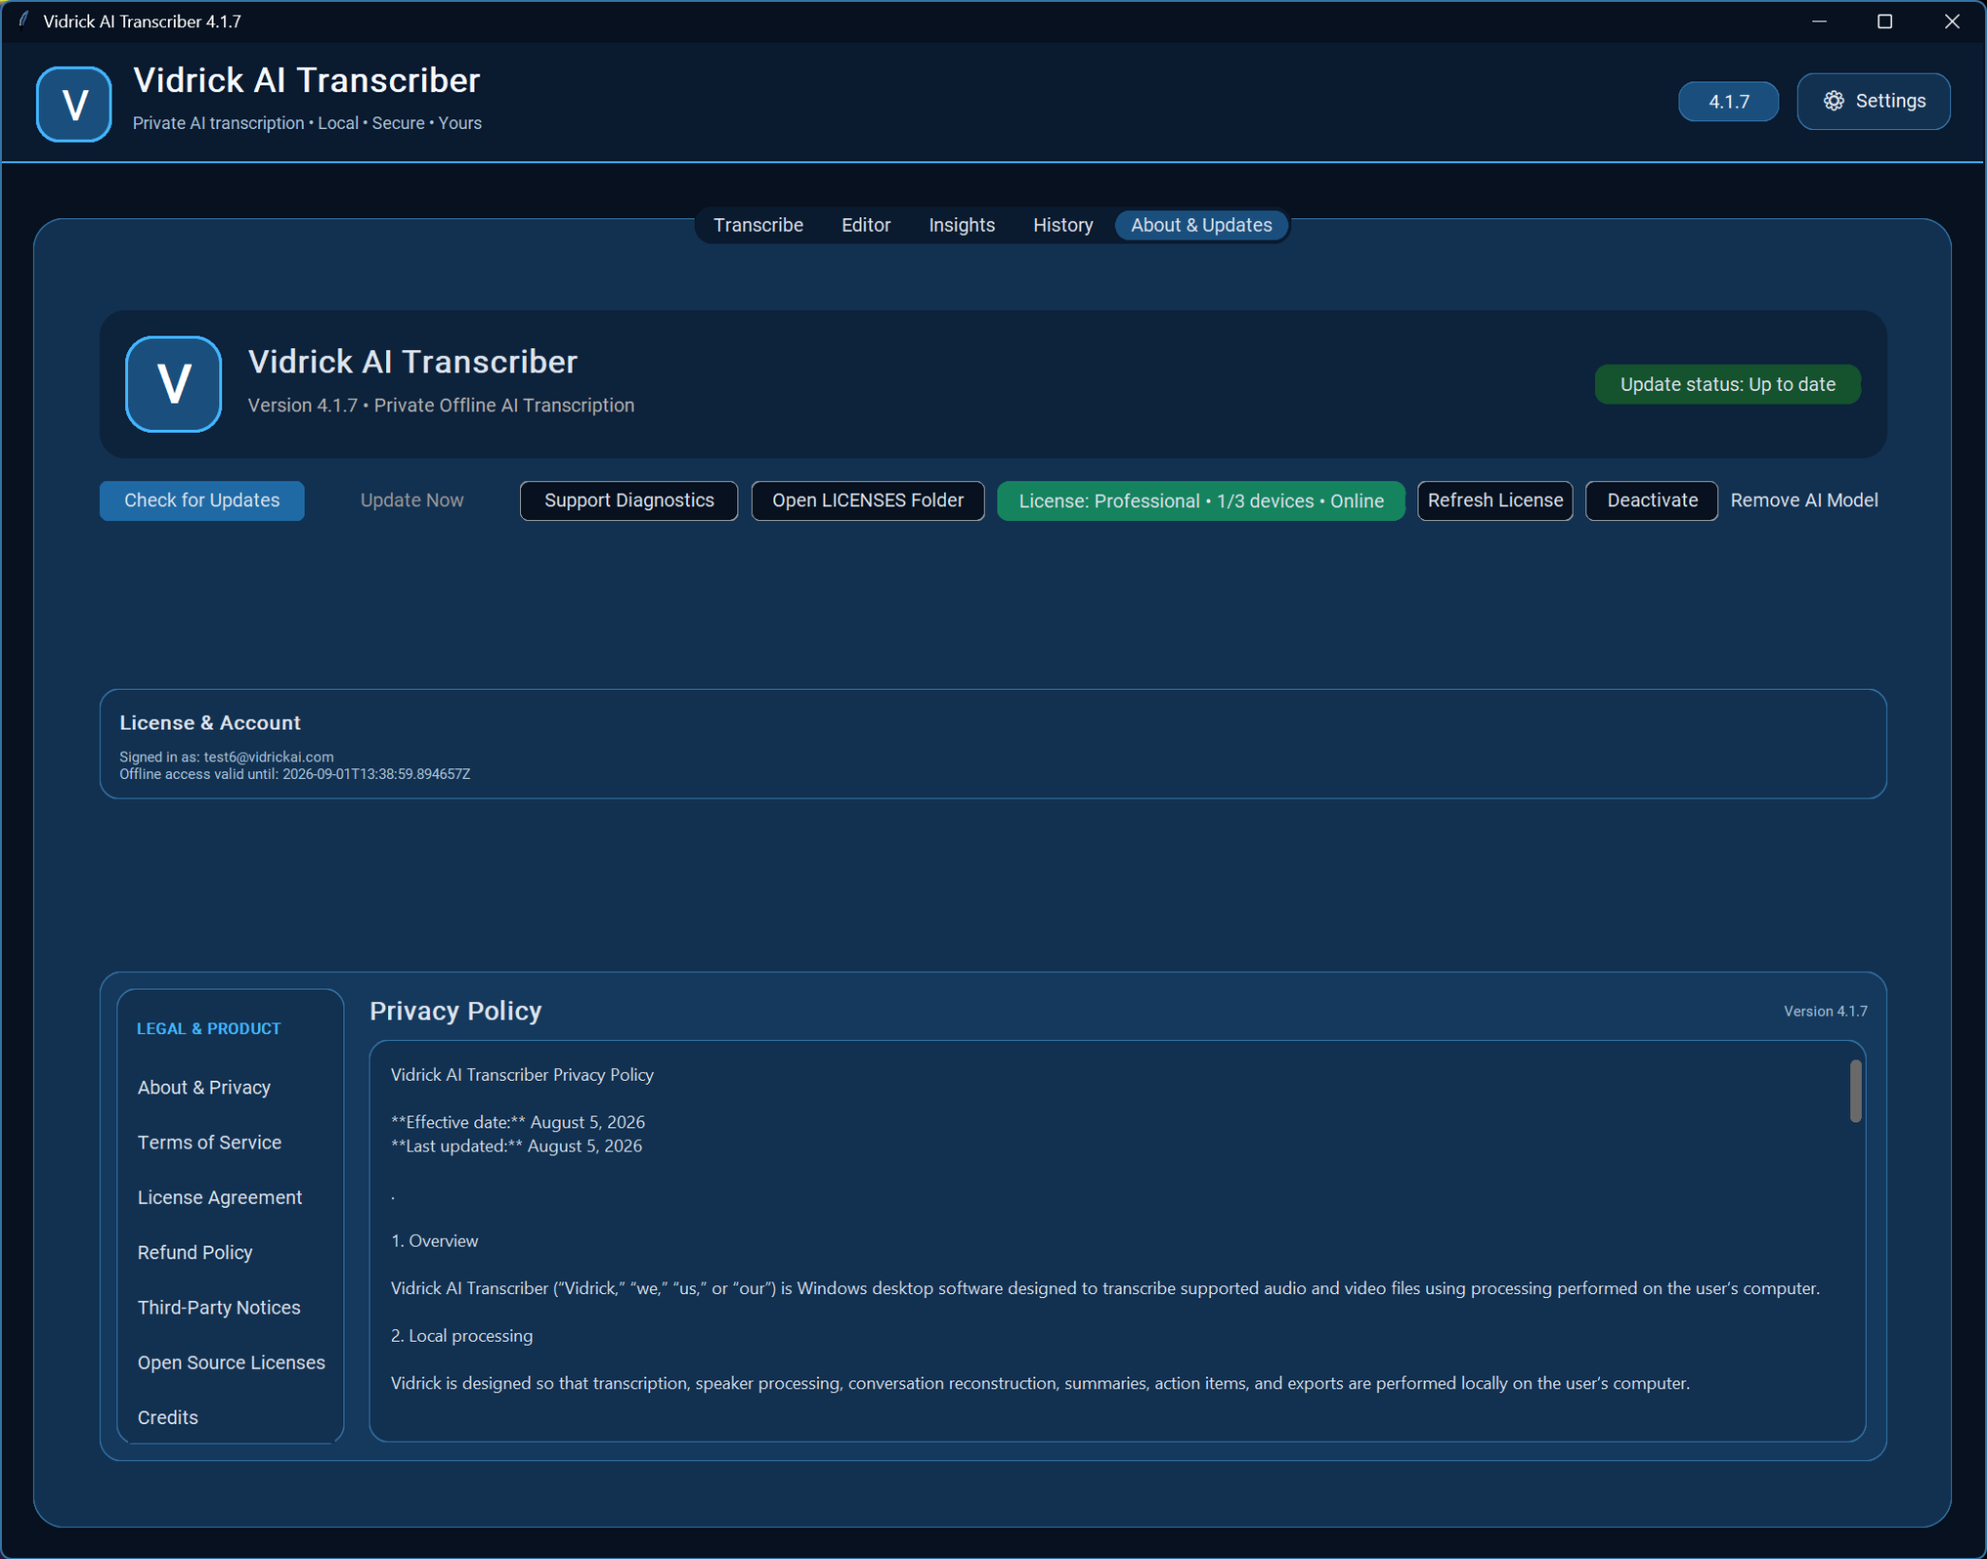
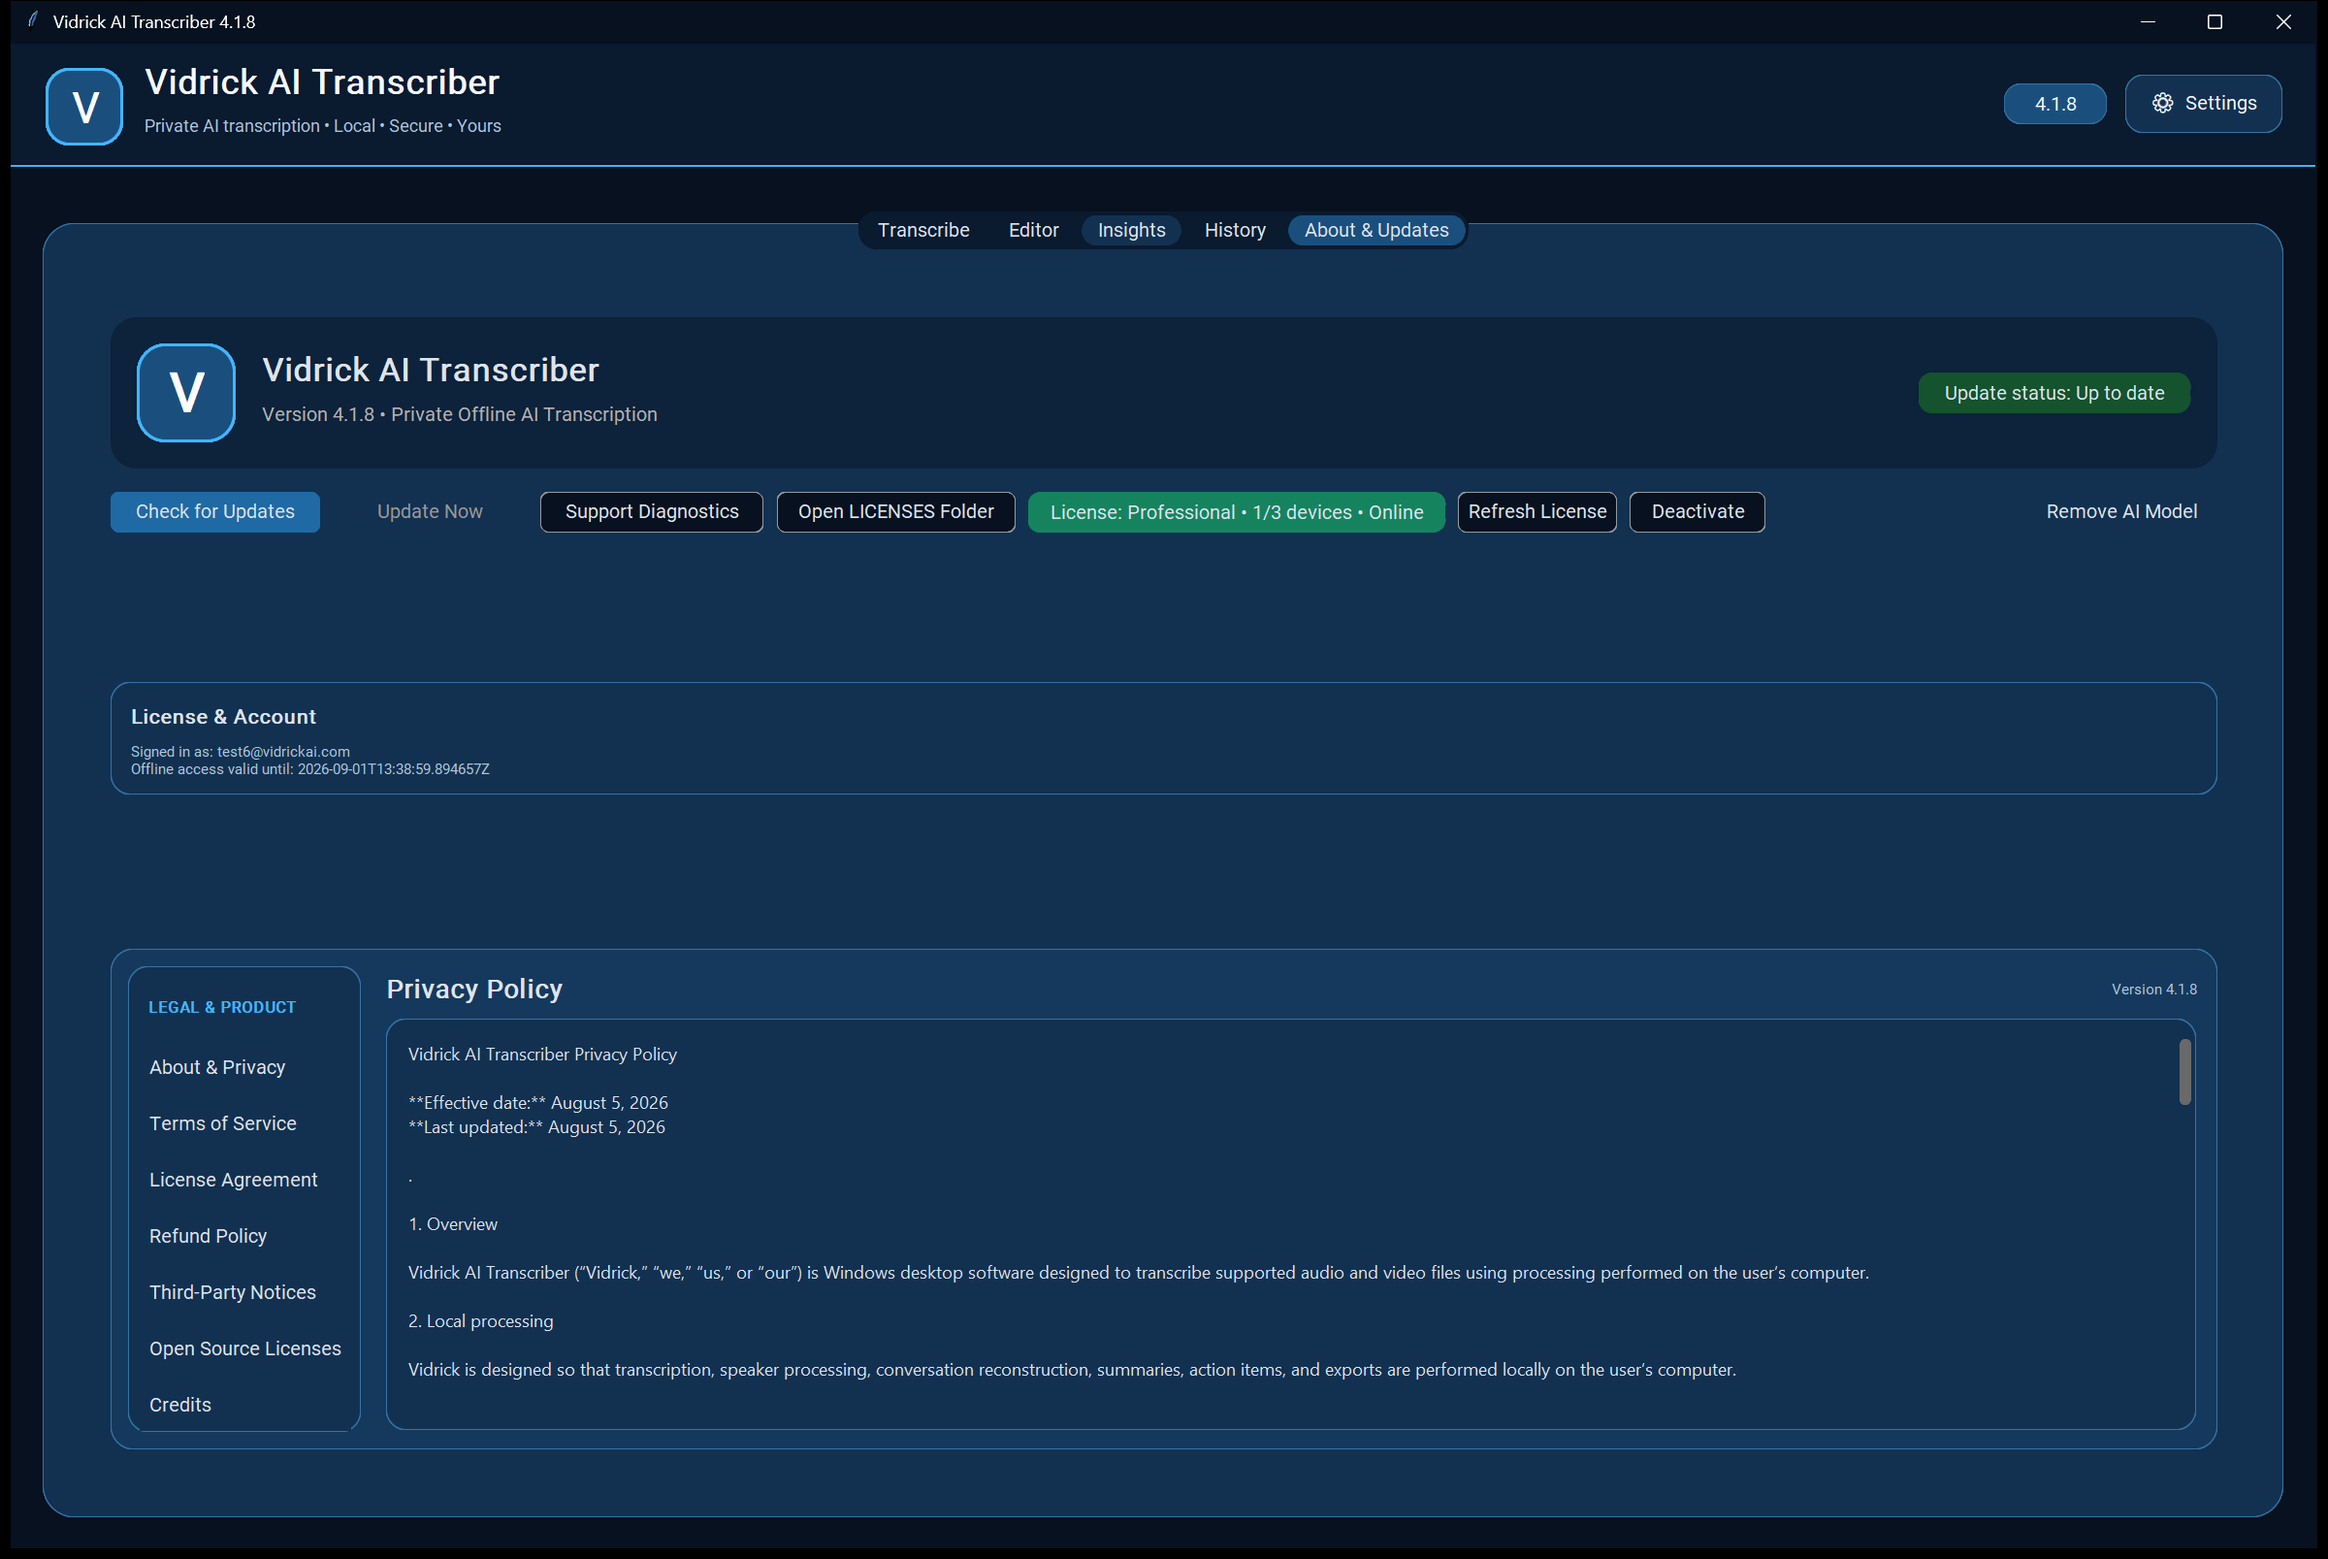
Update website for Vidrick AI Transcriber 4.1.8

diff --git a/index.html b/index.html
@@ -17,7 +17,7 @@
   <link rel="preconnect" href="https://fonts.googleapis.com">
   <link rel="preconnect" href="https://fonts.gstatic.com" crossorigin>
   <link href="https://fonts.googleapis.com/css2?family=Inter:wght@400;500;600;700;800&display=swap" rel="stylesheet">
-  <link rel="stylesheet" href="styles.css">
+  <link rel="stylesheet" href="styles.css?v=4.1.8">
   <meta name="robots" content="index, follow, max-image-preview:large">
   <meta property="og:title" content="Vidrick AI Transcriber | Private Offline AI Transcription for Windows">
   <meta property="og:description" content="Transcribe audio and video locally on Windows with 57 selectable languages plus Auto-detect, speaker identification, and NVIDIA GPU acceleration.">
@@ -90,7 +90,7 @@
       </div>
 
       <div class="hero-shot screenshot-frame reveal">
-        <img src="assets/transcribe.png" alt="Vidrick AI Transcriber 4.1.7 transcription screen with local CPU processing and automatic speaker identification">
+        <img src="assets/transcribe.png?v=4.1.8" alt="Vidrick AI Transcriber 4.1.8 transcription screen with local processing and automatic speaker identification">
       </div>
     </section>
 
@@ -108,7 +108,7 @@
         <p>When Vidrick opens for the first time, the welcome screen highlights the core experience: private local processing, speaker identification, conversation reconstruction, and professional export options.</p>
       </div>
       <div class="wide-shot screenshot-frame reveal welcome-shot">
-        <img src="assets/welcome-screen.png" alt="Vidrick AI Transcriber 4.1.7 welcome screen showing private local transcription, speaker identification, conversation reconstruction, and professional exports">
+        <img src="assets/welcome-screen.png" alt="Vidrick AI Transcriber welcome screen showing private local transcription, speaker identification, conversation reconstruction, and professional exports">
       </div>
     </section>
 
@@ -127,7 +127,7 @@
         </ul>
       </div>
       <div class="screenshot-frame reveal">
-        <img src="assets/transcribe.png" alt="Vidrick AI Transcriber 4.1.7 transcription settings and file selection screen">
+        <img src="assets/transcribe.png?v=4.1.8" alt="Vidrick AI Transcriber 4.1.8 transcription settings and file selection screen">
       </div>
     </section>
 
@@ -144,7 +144,7 @@
         </ul>
       </div>
       <div class="screenshot-frame reveal">
-        <img src="assets/transcribe.png" alt="Vidrick transcription complete screen">
+        <img src="assets/transcribe.png?v=4.1.8" alt="Vidrick AI Transcriber 4.1.8 local transcription workflow">
       </div>
     </section>
 
@@ -155,7 +155,7 @@
         <p>Review completed transcripts, make corrections, and save the finished version without sending your conversation to another service.</p>
       </div>
       <div class="wide-shot screenshot-frame reveal">
-        <img src="assets/editor.png" alt="Vidrick AI Transcriber 4.1.7 transcript editor">
+        <img src="assets/editor.png?v=4.1.8" alt="Vidrick AI Transcriber 4.1.8 transcript editor">
       </div>
     </section>
 
@@ -172,7 +172,7 @@
         </ul>
       </div>
       <div class="screenshot-frame reveal">
-        <img src="assets/insights.png" alt="Vidrick AI Transcriber 4.1.7 AI Insights screen">
+        <img src="assets/insights.png?v=4.1.8" alt="Vidrick AI Transcriber 4.1.8 AI Insights screen">
       </div>
     </section>
 
@@ -189,7 +189,7 @@
         </ul>
       </div>
       <div class="screenshot-frame reveal">
-        <img src="assets/history.png" alt="Vidrick AI Transcriber 4.1.7 transcription history">
+        <img src="assets/history.png?v=4.1.8" alt="Vidrick AI Transcriber 4.1.8 transcription history">
       </div>
     </section>
 
@@ -200,7 +200,7 @@
         <p>See your installed version, check for updates, review privacy information, and learn what powers Vidrick — all from inside the app.</p>
       </div>
       <div class="wide-shot screenshot-frame reveal">
-        <img src="assets/about-updates.png" alt="Vidrick AI Transcriber 4.1.7 About and Updates screen">
+        <img src="assets/about-updates.png?v=4.1.8" alt="Vidrick AI Transcriber 4.1.8 About and Updates screen">
       </div>
     </section>
 
@@ -261,11 +261,15 @@ Okay.</pre>
     
     <section class="whats-new shell">
       <div class="section-heading reveal">
-        <div class="eyebrow">What’s new in 4.1.7</div>
-        <h2>More accurate speakers. Cleaner conversations. Built for long recordings.</h2>
-        <p>Version 4.1.7 delivers a major upgrade to speaker identification and conversation reconstruction. Speaker identities stay more consistent, rapid handoffs are cleaner, and long multi-speaker recordings are handled with greater precision — while everything continues to run privately on your computer.</p>
+        <div class="eyebrow">What’s new in 4.1.7 / 4.1.8</div>
+        <h2>A multilingual interface. More accurate speakers. The same private workflow.</h2>
+        <p>Version 4.1.8 adds live English, Spanish, and French interface localization, building on the major speaker-identification and conversation-reconstruction improvements introduced in 4.1.7. Everything continues to run privately on your computer.</p>
       </div>
       <div class="update-grid">
+        <article class="glass reveal"><span class="update-badge">NEW · 4.1.8</span><h3>English, Spanish & French interface</h3><p>Choose your preferred interface language in Settings and use Vidrick’s main screens, controls, workflow status, and dialogs in English, Spanish, or French.</p></article>
+        <article class="glass reveal"><span class="update-badge">LIVE · 4.1.8</span><h3>Instant language switching</h3><p>The interface updates as soon as a language is selected. Save keeps the new language for future sessions, while Cancel restores the previous selection.</p></article>
+        <article class="glass reveal"><span class="update-badge">SEPARATE · 4.1.8</span><h3>Independent language controls</h3><p>Interface language remains separate from the recording’s spoken-language and Translate to English settings, so changing the app display never changes transcription behavior.</p></article>
+        <article class="glass reveal"><span class="update-badge">UPDATED · 4.1.8</span><h3>Refreshed update helper</h3><p>The updater helper has been freshly rebuilt for the 4.1.8 release while preserving Vidrick’s existing automatic update and installer-verification workflow.</p></article>
         <article class="glass reveal"><span class="update-badge">NEW · 4.1.7</span><h3>Stronger speaker identity</h3><p>Improved acoustic reconciliation keeps recurring voices more consistent across long conversations and helps reduce fragmented speaker labels.</p></article>
         <article class="glass reveal"><span class="update-badge">IMPROVED</span><h3>Cleaner speaker handoffs</h3><p>New boundary intelligence handles rapid back-and-forth conversation more naturally, reducing words and short phrases assigned to the wrong speaker.</p></article>
         <article class="glass reveal"><span class="update-badge">FASTER</span><h3>Improved processing time</h3><p>Long-recording speaker processing has been optimized to reduce unnecessary analysis passes, delivering faster results while preserving the improved speaker accuracy and local, private workflow.</p></article>
@@ -274,6 +278,9 @@ Okay.</pre>
         <article class="glass reveal"><span class="update-badge">REFINED</span><h3>Better word ownership</h3><p>Word-level boundary refinement keeps short utterances and sentence endings together, producing cleaner, more readable speaker-separated transcripts.</p></article>
         <article class="glass reveal"><span class="update-badge">PRIVATE</span><h3>Still completely local</h3><p>All transcription, speaker identification, conversation reconstruction, insights, and exports continue to run on your Windows PC — your recordings stay yours.</p></article>
       </div>
+      <div class="release-screenshot screenshot-frame reveal">
+        <img src="assets/settings.png?v=4.1.8" alt="Vidrick AI Transcriber 4.1.8 Settings screen with the new Interface language selector">
+      </div>
       <p class="local-note reveal"><strong>Still private by design.</strong> Transcription and speaker processing continue to run locally on your computer.</p>
     </section>
 
@@ -281,7 +288,7 @@ Okay.</pre>
       <div class="section-copy reveal">
         <div class="eyebrow">Multilingual transcription</div>
         <h2>57 selectable languages plus Auto-detect.</h2>
-        <p>Vidrick AI Transcriber 4.1.7 supports 57 named languages plus Auto-detect. Choose the recording language directly, or let Vidrick detect it automatically.</p>
+        <p>Vidrick AI Transcriber 4.1.8 supports 57 named transcription languages plus Auto-detect. Choose the recording language directly, or let Vidrick detect it automatically.</p>
         <ul class="feature-list">
           <li>Includes English, Spanish, French, German, Portuguese, Arabic, Chinese, Hindi, Japanese, Korean, Russian, Ukrainian, Vietnamese and more</li>
           <li>Translate to English remains available</li>
@@ -290,7 +297,7 @@ Okay.</pre>
         <p><a href="multilingual-transcription.html">See multilingual transcription details →</a></p>
       </div>
       <div class="screenshot-frame reveal">
-        <img src="assets/transcribe.png" alt="Vidrick AI Transcriber 4.1.7 language and transcription settings">
+        <img src="assets/transcribe.png?v=4.1.8" alt="Vidrick AI Transcriber 4.1.8 language and transcription settings">
       </div>
     </section>
 

diff --git a/styles.css b/styles.css
@@ -3,3 +3,5 @@
 .whats-new{padding:110px 0 30px}.update-grid{display:grid;grid-template-columns:repeat(3,1fr);gap:16px}.update-grid article{padding:26px}.update-grid h3{margin:16px 0 8px;font-size:20px}.update-grid p{margin:0;color:#90a8bb;line-height:1.6}.update-badge{display:inline-flex;padding:6px 9px;border:1px solid #315f7c;border-radius:999px;background:#102d49;color:#81d5ff;font-size:10px;font-weight:800;letter-spacing:.08em}.local-note{margin:22px 0 0;color:#9db4c6;font-size:14px}.local-note strong{color:#eaf8ff}@media(max-width:980px){.update-grid{grid-template-columns:repeat(2,1fr)}}@media(max-width:680px){.whats-new{padding:84px 0 10px}.update-grid{grid-template-columns:1fr}}
 /* Keep the first-run welcome screenshot compact while preserving responsiveness. */
 .welcome-shot{max-width:820px;margin-left:auto;margin-right:auto}
+/* Highlight the 4.1.8 interface-language control without overwhelming the release grid. */
+.release-screenshot{max-width:760px;margin:36px auto 0}

diff --git a/multilingual-transcription.html b/multilingual-transcription.html
@@ -27,9 +27,9 @@
 <body>
 <main>
   <a href="/">← Vidrick AI Transcriber</a><br>
-  <span class="badge">Windows • Local AI • 4.1.5</span>
+  <span class="badge">Windows • Local AI • 4.1.8</span>
   <h1>Multilingual Offline AI Transcription</h1>
-  <p>Vidrick AI Transcriber 4.1.5 gives Windows users 57 named language choices plus Auto-detect inside the same local transcription workflow.</p>
+  <p>Vidrick AI Transcriber 4.1.8 gives Windows users 57 named transcription-language choices plus Auto-detect inside the same local workflow.</p>
 
   <div class="card">
     <h2>57 named language choices</h2>

diff --git a/README.md b/README.md
@@ -24,7 +24,7 @@ Those pages will become active when the customer portal is deployed.
 
 ## Updated application screenshots
 
-This package includes the current Vidrick 4.1.0 screenshots:
+This package includes the current Vidrick 4.1.8 screenshots:
 
 - Transcribe
 - Settings
